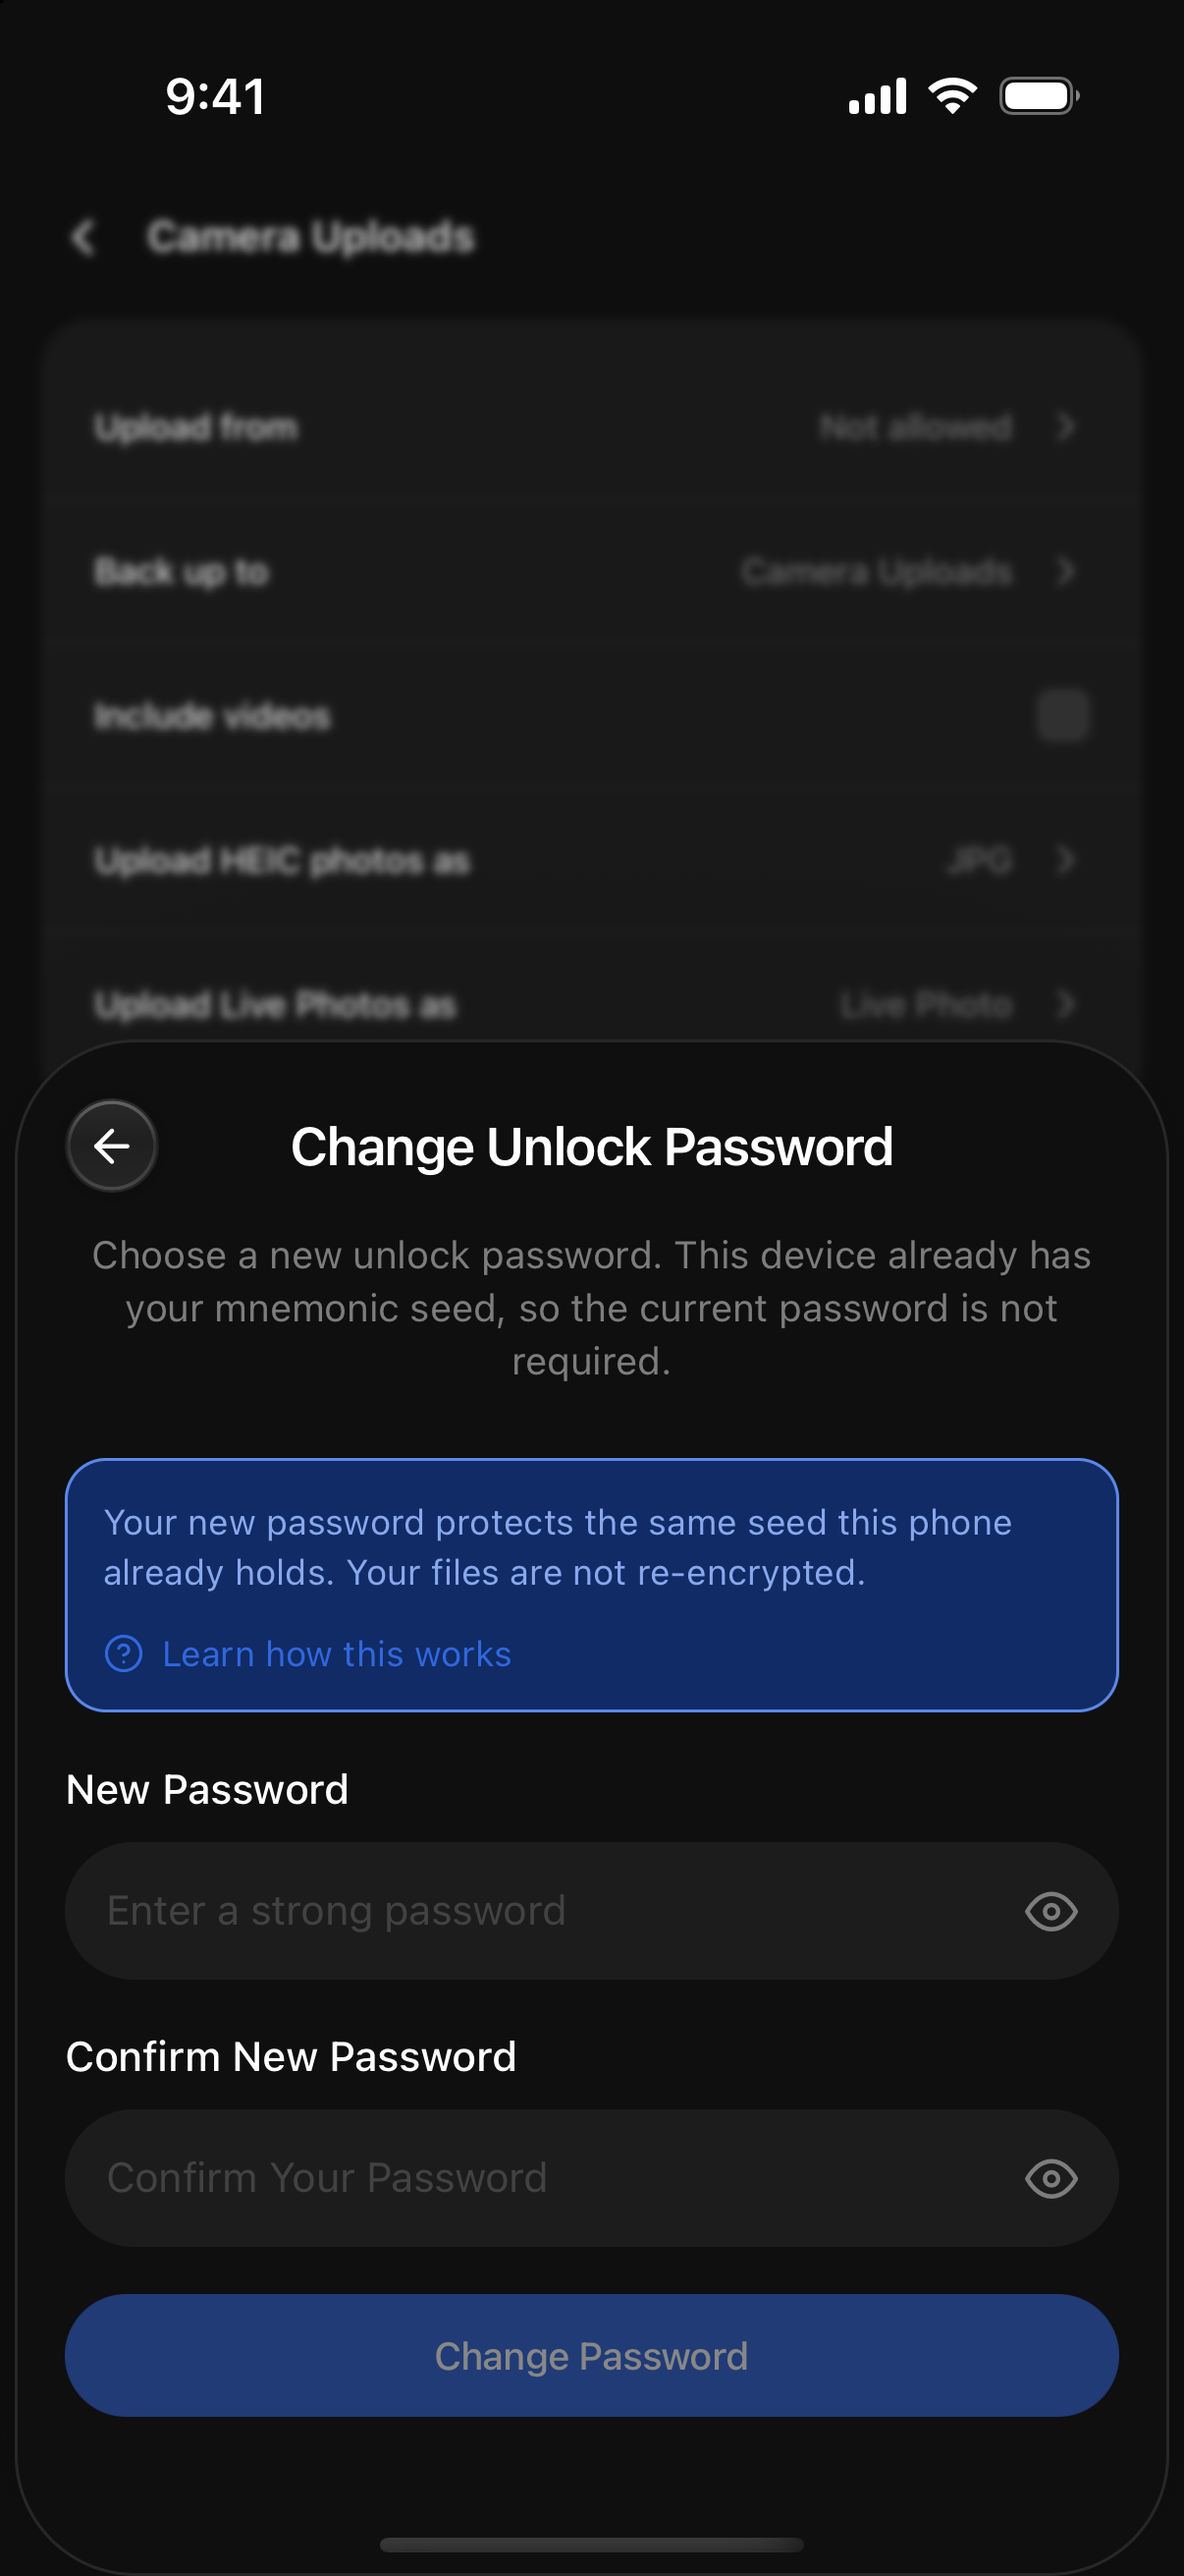
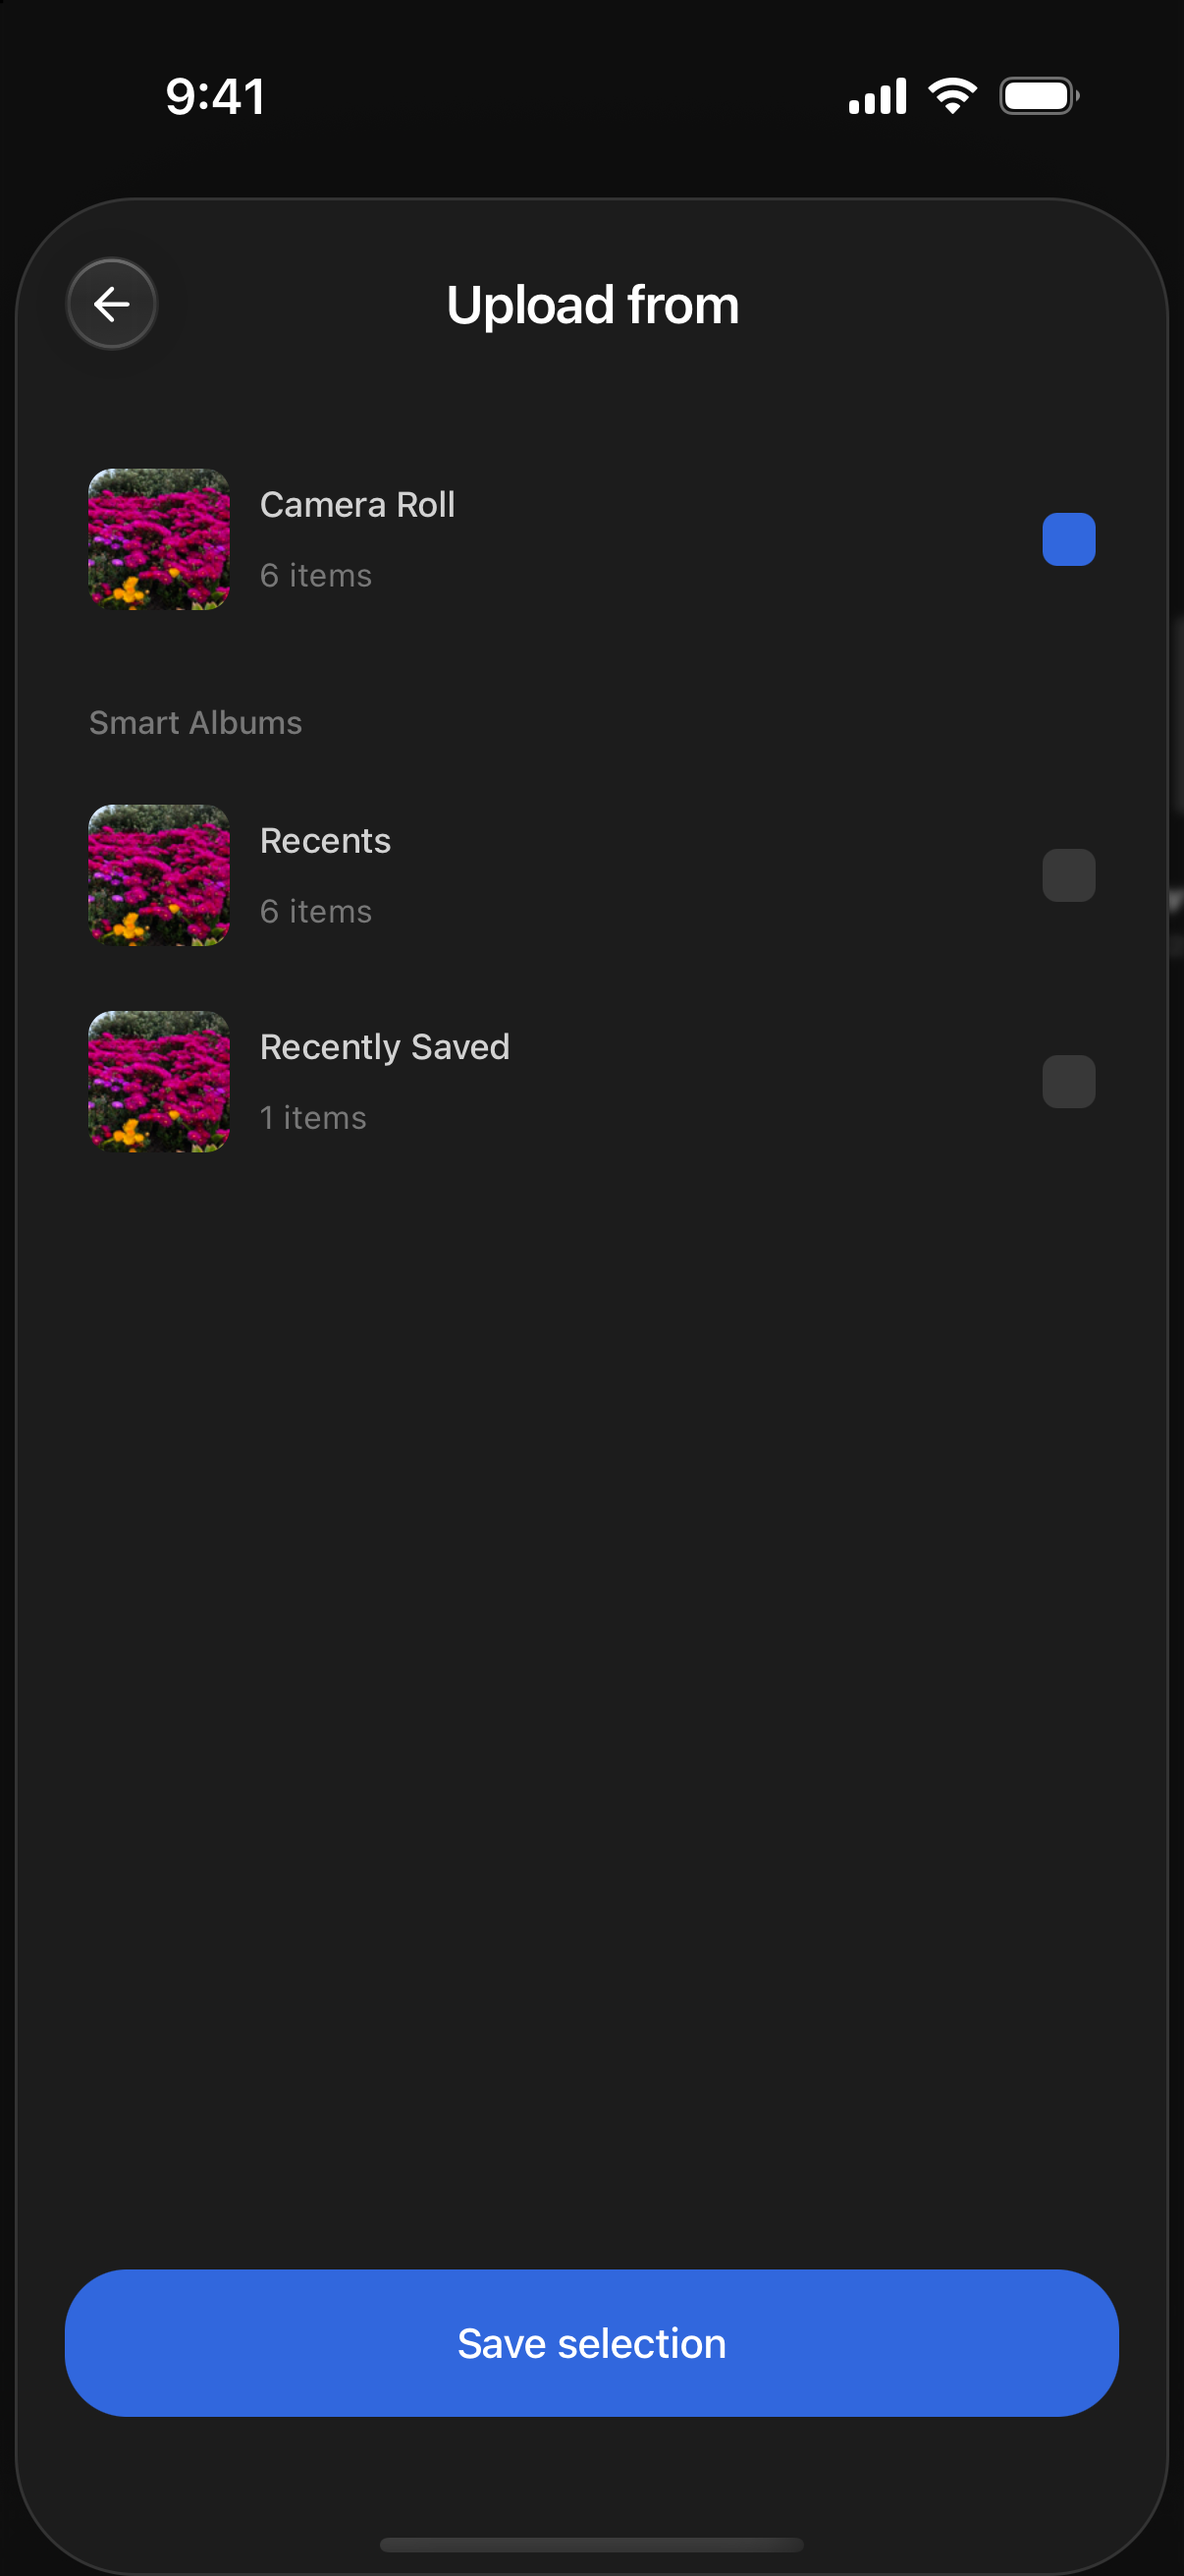
docs(mobile): fix Camera Uploads screenshots and iPhone-only install copy

diff --git a/docs/use/mobile/mobile-app.md b/docs/use/mobile/mobile-app.md
@@ -21,7 +21,7 @@ Everything is encrypted on your phone before it leaves it, so what travels to th
 
 ## Installing the app
 
-Hippius is on **Google Play** now (Android). The **App Store** build for iPhone and iPad is coming soon.
+Hippius is on **Google Play** now (Android). The **App Store** build for iPhone is coming soon.
 
 On Android, search for Hippius in Google Play, or open [hippius.com](https://hippius.com) on your phone and use the Google Play download link there.
 
